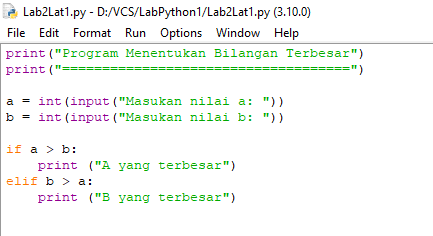
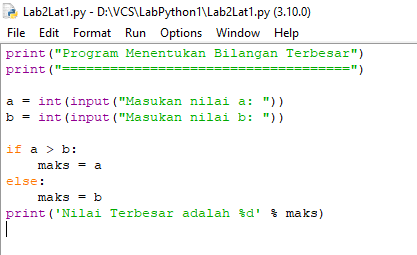
menambahkan file

diff --git a/README.md b/README.md
@@ -14,9 +14,10 @@
         b = int(input("Masukan nilai b: "))
 
         if a > b:
-            print ("A yang terbesar")
-        elif b > a:
-            print ("B yang terbesar")
+            maks = a
+        else:
+            maks = b
+        print('Nilai Terbesar adalah %d' % maks)
         ```
         ![IMG 1](screenshoot/Lab2Lat1.1.png)
 
@@ -88,3 +89,5 @@
 - Output
 
     ![IMG 8](screenshoot/Lab3Lat2.2.png) 
+
+# TERIMA KASIH
